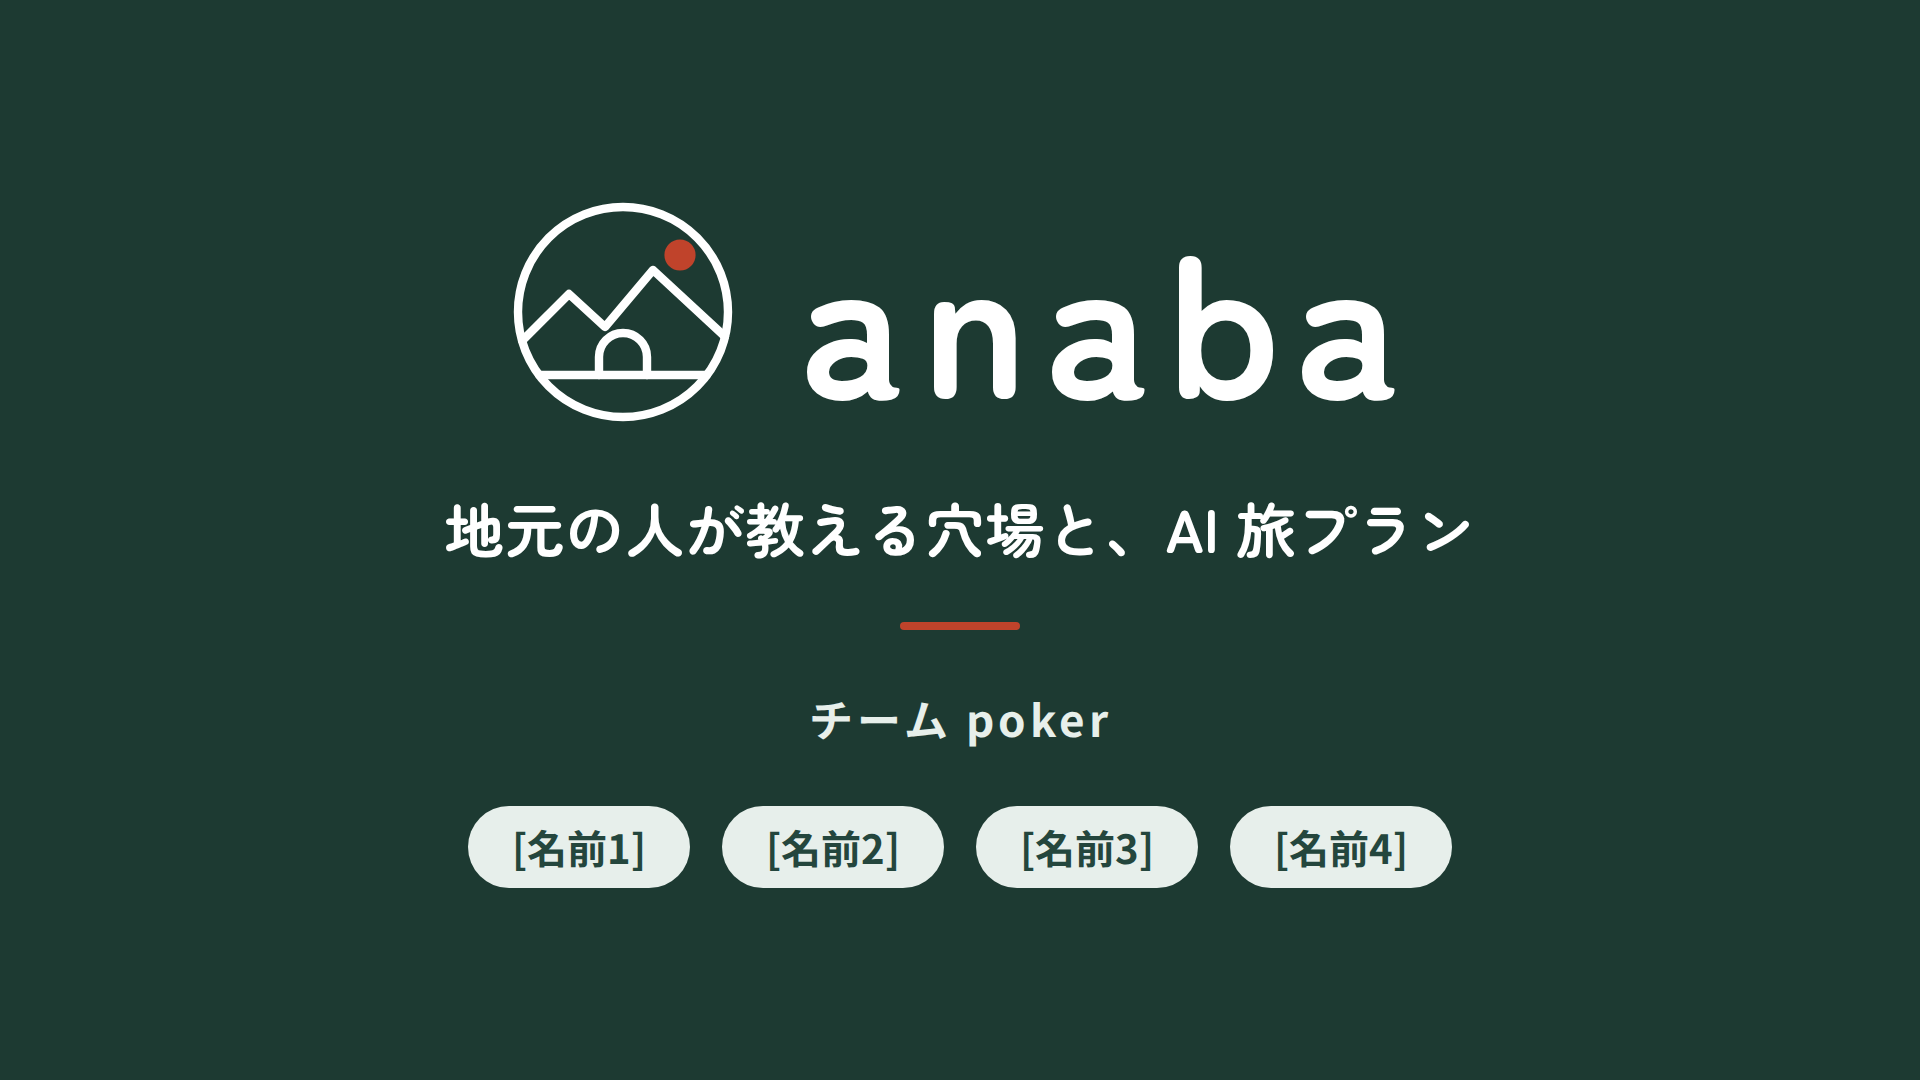
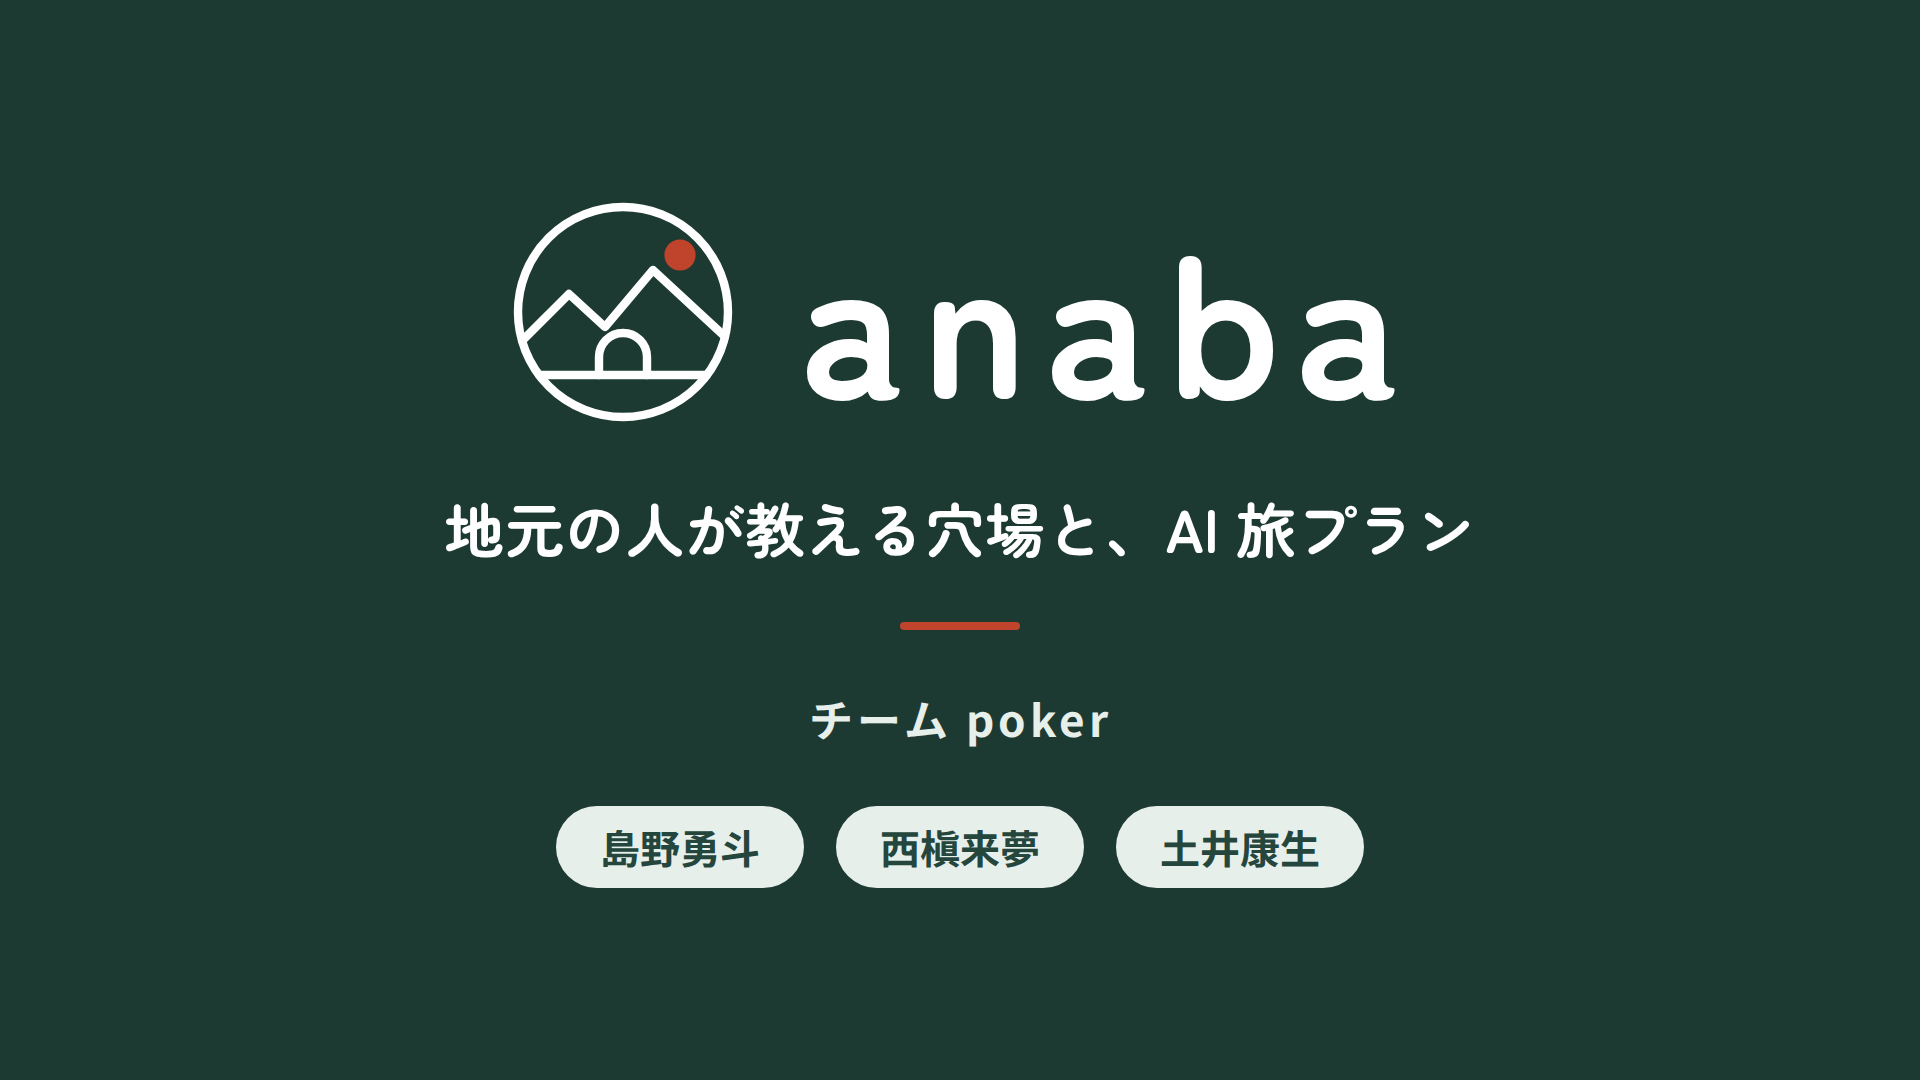
表紙のメンバーを3人の名前にする（島野勇斗・西槇来夢・土井康生）
プレースホルダ [名前1]〜[名前4] を置き換え、4人目の枠を消す。原稿の名乗りも3人に合わせる。

Changed region(s): [[0.2188, 0.7333, 0.7812, 0.825]]

diff --git a/deck/slides/hook.html b/deck/slides/hook.html
@@ -7,13 +7,12 @@
   <div style="width:120px; height:8px; background:#c0432b; border-radius:4px"></div>
   <p style="font-size:44px; font-weight:700; letter-spacing:4px; color:#e7efeb">チーム poker</p>
   <div style="display:flex; flex-direction:row; gap:32px">
-    <p style="font-size:40px; font-weight:700; color:#24463d; background:#e7efeb; border-radius:999px; padding:12px 44px">[名前1]</p>
-    <p style="font-size:40px; font-weight:700; color:#24463d; background:#e7efeb; border-radius:999px; padding:12px 44px">[名前2]</p>
-    <p style="font-size:40px; font-weight:700; color:#24463d; background:#e7efeb; border-radius:999px; padding:12px 44px">[名前3]</p>
-    <p style="font-size:40px; font-weight:700; color:#24463d; background:#e7efeb; border-radius:999px; padding:12px 44px">[名前4]</p>
+    <p style="font-size:40px; font-weight:700; color:#24463d; background:#e7efeb; border-radius:999px; padding:12px 44px">島野勇斗</p>
+    <p style="font-size:40px; font-weight:700; color:#24463d; background:#e7efeb; border-radius:999px; padding:12px 44px">西槇来夢</p>
+    <p style="font-size:40px; font-weight:700; color:#24463d; background:#e7efeb; border-radius:999px; padding:12px 44px">土井康生</p>
   </div>
-  <aside>（0:00〜0:40。約155字（約31秒）＋手を挙げてもらう間＝約40秒。名乗ったらすぐ問いかける。審査の①「課題設定のリアルさ」の入口）
-チーム poker の、[名前1]、[名前2]、[名前3]、[名前4]です。
+  <aside>（0:00〜0:40。約150字（約30秒）＋手を挙げてもらう間＝約40秒。名乗ったらすぐ問いかける。審査の①「課題設定のリアルさ」の入口）
+チーム poker の、島野勇斗、西槇来夢、土井康生です。
 さっそくですが、この夏、旅行に行った人、手を挙げてください。
 （手を挙げてもらい、2秒ほど待つ）
 ありがとうございます。では、その行き先、どうやって決めましたか？インスタ、TikTok、Google。いろいろありますよね。
